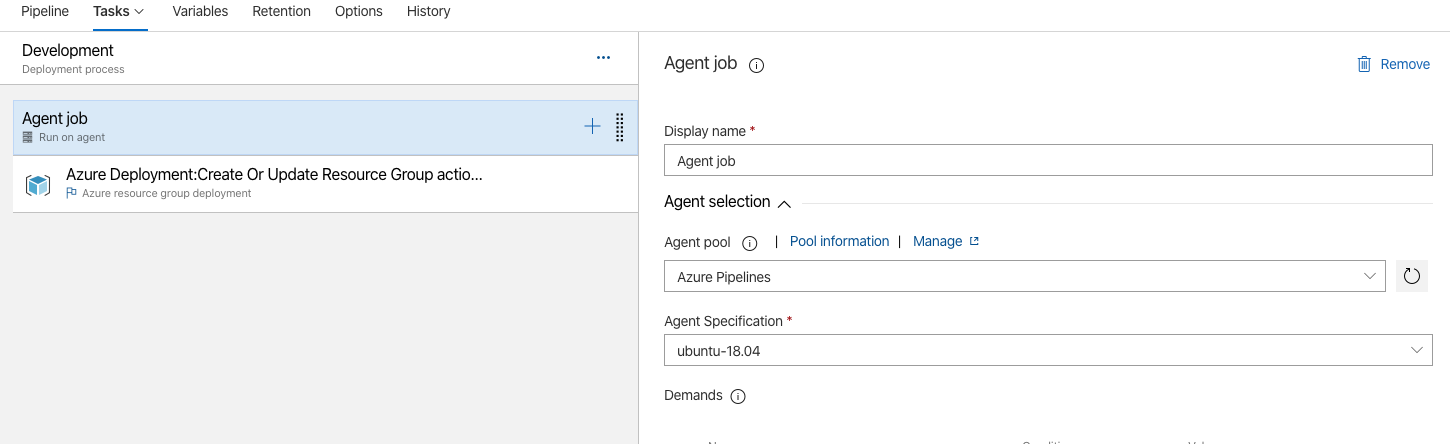
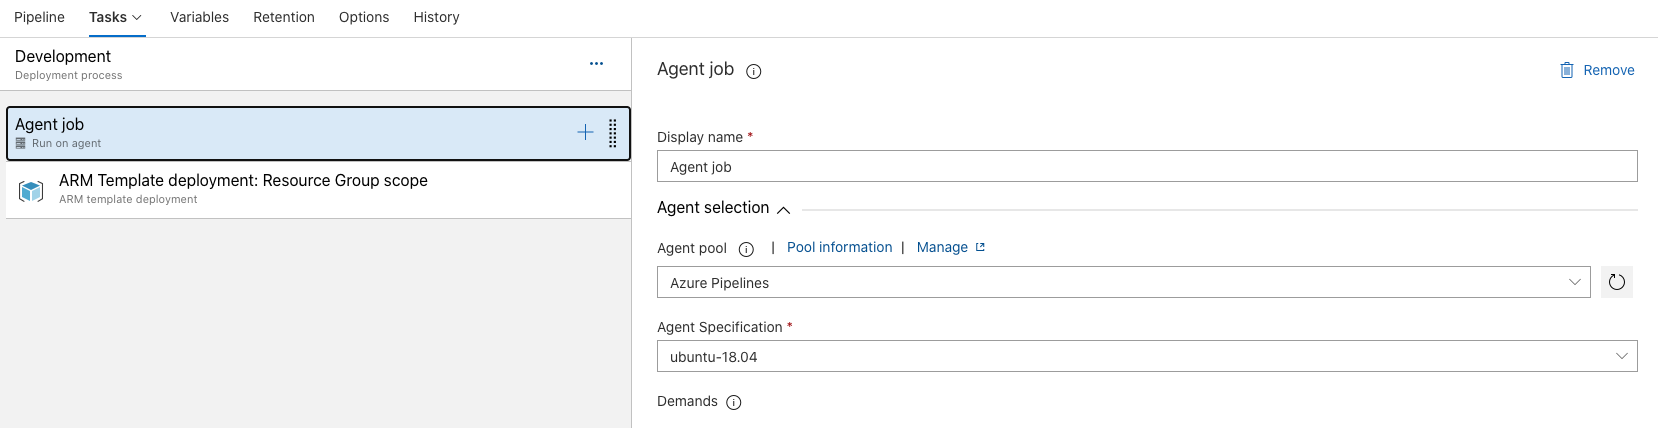
Testing/day4 (#32)
* screenshots, functions, arm templates

* screenshots, functions, arm templates

* function contentshare and riúntime version

diff --git a/day4/challenges/challenge-bo-1.md b/day4/challenges/challenge-bo-1.md
@@ -48,7 +48,7 @@ PR Build name: __SCM-Resource-PR__
 CD Build name: __SCM-Resources-CD__
 
 CD Build Tasks:
-1. Azure resource group deployment --> __scm-resources-api-dotnetcore.json__
+1. ARM template deployment --> __scm-resources-api-dotnetcore.json__
 2. Azure App Service Deploy --> __Adc.Scm.Resources.Api.zip__
    - App Service type --> __API App__
    - App Service name --> __$(ApiAppName)__
@@ -171,7 +171,7 @@ PR Build name: __SCM-Search-PR__
 CD Build name: __SCM-Search-CD__
 
 CD Build Tasks:
-1. Azure Resource group deployment --> __scm-search-api-dotnetcore.json__
+1. ARM template deployment --> __scm-search-api-dotnetcore.json__
 2. Azure App Service Deploy --> __Adc.Scm.Search.Api.zip__
    - App Service type --> __Web App on Windows__
    - App Service name --> __$(ApiAppName)__
@@ -305,8 +305,8 @@ PR Build name: __SCM-Visitreports-PR__
 CD Build name: __SCM-Visitreports-CD__
 
 CD Build Tasks:
-1. Azure Resource group deployment --> __scm-visitreport-nodejs-db.json__
-2. Azure Resource group deployment --> __scm-visitreport-nodejs-infra.json__
+1. ARM template deployment --> __scm-visitreport-nodejs-db.json__
+2. ARM template deployment --> __scm-visitreport-nodejs-infra.json__
 3. Azure App Service deploy --> __Adc.Scm.VisitReports.zip__
    - App Service type --> __Web App on Linux__
    - App Service name --> __$(ApiAppName)__
@@ -440,8 +440,8 @@ PR Build name: __SCM-Textanalytics-PR__
 CD Build name: __SCM-Textanalytics-CD__
 
 CD Build Tasks:
-1. Azure Resource group deployment --> __scm-textanalytics-nodejs-common.json__
-2. Azure Resource group deployment --> __scm-textanalytics-nodejs-infra.json__
+1. ARM template deployment --> __scm-textanalytics-nodejs-common.json__
+2. ARM template deployment --> __scm-textanalytics-nodejs-infra.json__
 3. Azure App Service deploy --> __Adc.Scm.Textanalytics.zip__
    - App Service type --> __Function App on Linux__
    - App Service name: --> __$(FunctionAppName)__

diff --git a/day4/challenges/challenge-3.md b/day4/challenges/challenge-3.md
@@ -109,7 +109,7 @@ Now that we have created the build artifact, we can create a Release build to de
    - ServiceBusnamespaceName - |your prefix|-scm-dev (the namespace name must be globally unique)
    - ServiceBusSKU - Standard
    - CosmosDbAccountName - |your prefix|-scm-dev (the account name must be globally unique)
-8. Go to the Tasks section of the *"Development"* stage and add the task *"Azure resource group deployment"*
+8. Go to the Tasks section of the *"Development"* stage and add the task *"ARM template deployment"*
    - Select the Azure subscription
    - Use the variable for the ResourceGroup: $(ResourceGroup)
    - Select a location where you want to deploy the Azure resources

diff --git a/day4/challenges/challenge-4.md b/day4/challenges/challenge-4.md
@@ -160,7 +160,7 @@ Now we have created the deployment artifacts with the build _SCM-Contacts-CI_. I
    | ServiceBusNamespaceName | your ServiceBus namespace name of stage Development         | Development |
 
 5. Go to the Tasks section of the _"Development"_ stage and use the latest Ubuntu version to run the agent on
-6. Add the task _"Azure resource group deployment"_
+6. Add the task _"ARM template deployment"_
 7. Select your Azure Subscription
 8. Set the name of the ResourceGroup, use the variable \$(ResourceGroupName)
 9. Set the Location, use the variable \$(Location)

diff --git a/day4/challenges/challenge-2.md b/day4/challenges/challenge-2.md
@@ -11,7 +11,7 @@
 
 ## Import the Azure Developer College GitHub repository to your Azure Repo
 
-Open your browser and navigate to the [Azure Developer College Training Days on GitHub](https://github.com/azuredevcollege/trainingdays). Click the green "Clone or download" button and copy the
+Open your browser and navigate to the [Azure Developer College Training Days on GitHub](https://github.com/azuredevcollege/trainingdays). Click the green "Code" button and copy the
 https url.
 
 ![Clone GitHub](./images/clone-adc-github.png)
